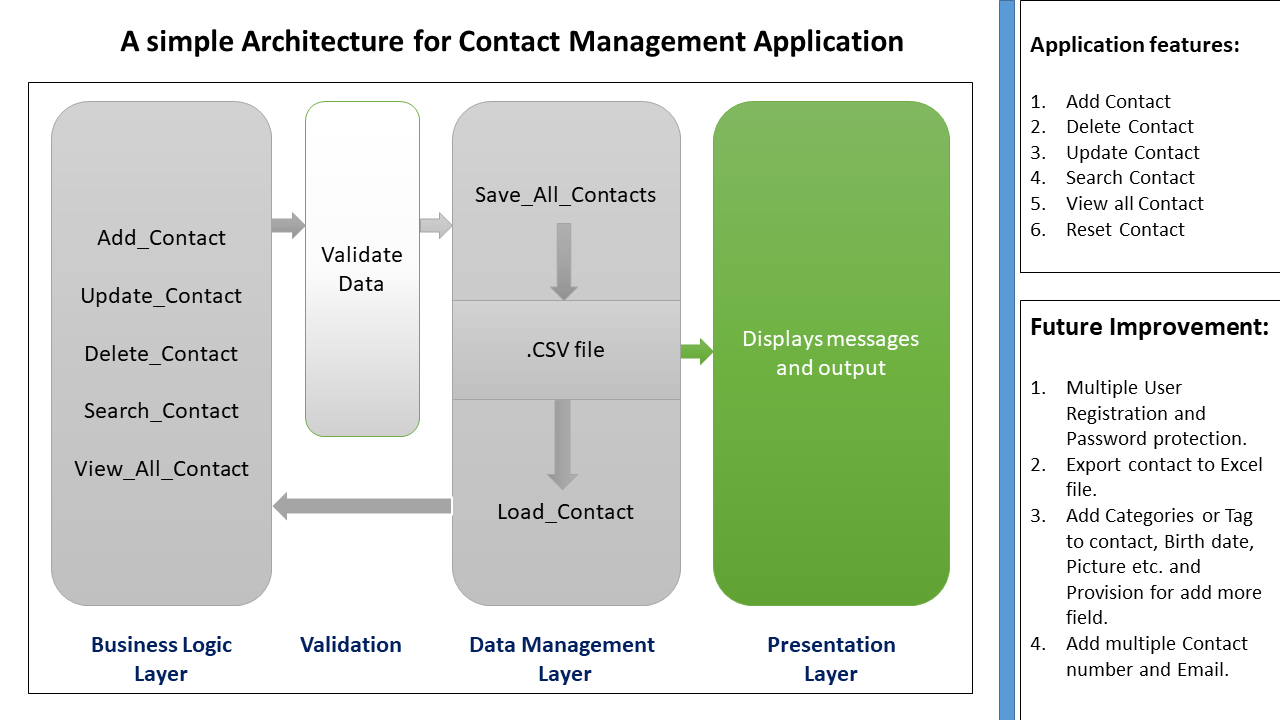
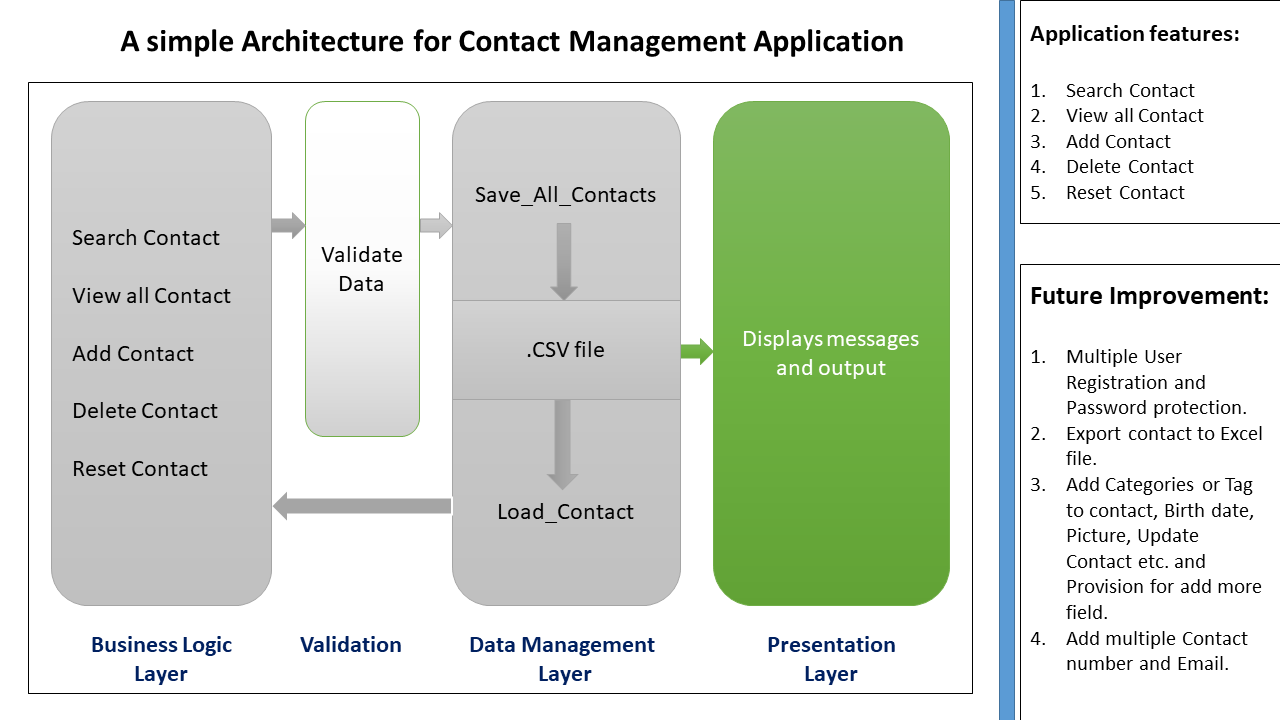
V02

diff --git a/Phone_Book.py b/Phone_Book.py
@@ -1,7 +1,6 @@
 import Add_Contact
 import View_All_Contacts
 import Delete_Contact
-import Update_Contacts
 import Load_Contacts
 import Search_Contact
 
@@ -15,8 +14,7 @@ while True:
     print("\t2. View All Contacts")
     print("\t3. Add Contact")
     print("\t4. Delete Contact")
-    print("\t5. Update Contact")
-    print("\t6. Reset Contact List")
+    print("\t5. Reset Contact List")
     print("\t0. Exit")
 
     menu = input("\nSelect any number: ")
@@ -30,8 +28,6 @@ while True:
     elif menu == "4":
         Delete_Contact.delete_contacts(All_Contacts)
     elif menu == "5":
-        Update_Contacts.update_contacts(All_Contacts)
-    elif menu == "6":
         confirm = input("\nAre you sure you want to reset all contacts? (yes/no): ").strip().lower()
         if confirm == "yes":
             All_Contacts.clear()
